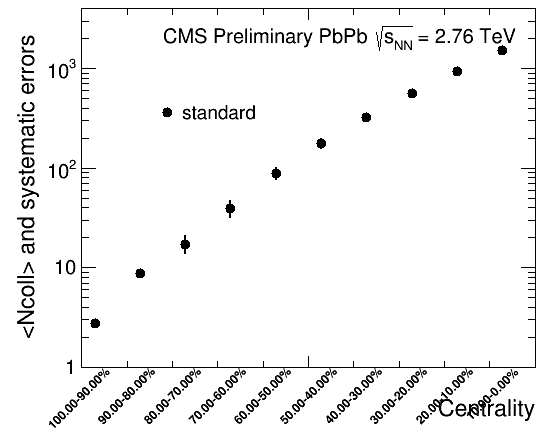
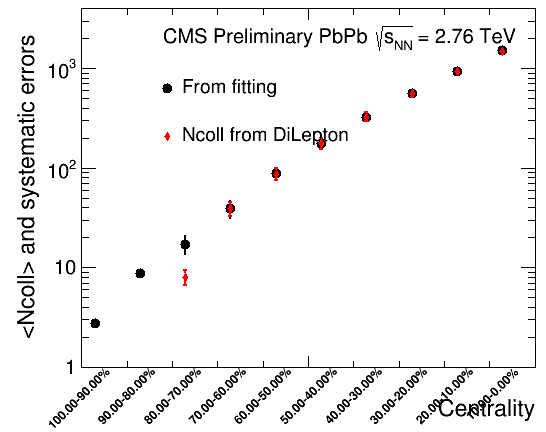
compare PbPb result

diff --git a/centrality/NBD/PbPb/double_side/Draw.C b/centrality/NBD/PbPb/double_side/Draw.C
@@ -3,6 +3,17 @@
 #include <iomanip>
 #include "par.h"
 void Draw(){ 
+ const int nDil = 8;
+ const double centDil[nDil+1] = {1.0,0.7,0.6,0.5,0.4,0.3,0.2,0.1,0};
+ double centDilbin[nDil];
+for(int i=0;i<nDil;i++)
+  centDilbin[i]=0.29+i+N-1-nDil;
+ const double NpartDil[nDil] = {8.75,30.51,53.30,86.23,130.06,187.35,261.49,355.45};
+ const double NpartDilerr[nDil] = {1.13,3.02,3.95,4.35,4.60,4.44,3.96,2.83};
+ const double NcollDil[nDil] = {8.01,38.86,86.85,175.76,326.06,563.21,926.79,1484.49};
+ const double NcollDilerr[nDil] = {1.41,6.41,12.48,21.13,34.27,52.66,81.37,120.0};
+ TGraphErrors *graphNpartDil = new TGraphErrors(nDil,centDilbin,NpartDil,0,NpartDilerr);
+ TGraphErrors *graphNcollDil = new TGraphErrors(nDil,centDilbin,NcollDil,0,NcollDilerr);
  TCanvas *c1 = new TCanvas("c1","c1",1,1,550,460);
  c1->SetLogy();
   c1->SetFillColor(10);
@@ -17,7 +28,7 @@ void Draw(){
   c1->SetTicks(-1);
 
 	N=N-1;
- TString str="Npart";
+ TString str="Ncoll";
  TH1D* hist = new TH1D("","",N,0,N);
  hist->GetXaxis()->SetNdivisions(502);
 if(method==0)
@@ -69,10 +80,22 @@ Gri101_graph->SetLineWidth(2);
 Gri101_graph->SetMarkerSize(1.2);
 Gri101_graph->Draw("Psameez");
 */
-    std::vector<TString> label(N);
+ graphNpartDil->SetMarkerSize(1.2);
+ graphNpartDil->SetLineColor(2);
+ graphNpartDil->SetLineWidth(2);
+ graphNpartDil->SetMarkerStyle(33);
+ graphNpartDil->SetMarkerColor(2);
+ graphNcollDil->SetMarkerSize(1.2);
+ graphNcollDil->SetLineColor(2);
+ graphNcollDil->SetLineWidth(2);
+ graphNcollDil->SetMarkerStyle(33);
+ graphNcollDil->SetMarkerColor(2);
+if(str=="Npart") graphNpartDil->Draw("Psame");
+if(str=="Ncoll") graphNcollDil->Draw("Psame");
+std::vector<TString> label(N);
 for(int i=0;i<N;i++)
-	if(method==0)label[i] = Form("%.2f-%.2f%%",(*centbin)[i]*100,(*centbin)[i+1]*100);
-	else label[i] = Form("%.2f-%.2f",(*kpoint)[i],(*kpoint)[i+1]);
+        if(method==0)label[i] = Form("%.2f-%.2f%%",(*centbin)[i]*100,(*centbin)[i+1]*100);
+        else label[i] = Form("%.2f-%.2f",(*kpoint)[i],(*kpoint)[i+1]);
 
     TLatex *tex1= new TLatex(0.3,0.9,"CMS Preliminary PbPb #sqrt{s_{NN}} = 2.76 TeV");
     tex1->SetNDC();
@@ -96,9 +119,11 @@ TLegend *leg0 = new TLegend(0.28,0.63,0.50,0.85);
     leg0->SetBorderSize(0);
     leg0->SetTextFont(42);
     leg0->SetTextSize(0.047);
-    leg0->AddEntry(graph,"standard","p");
+    leg0->AddEntry(graph,"From fitting","p");
 //    leg0->AddEntry(Gri055_graph,"Gribov #Omega=0.55","p");
 //    leg0->AddEntry(Gri101_graph,"Gribov #Omega=1.01","p");
+ if(str=="Npart")   leg0->AddEntry(graphNpartDil,"Npart from DiLepton","p");
+ if(str=="Ncoll")   leg0->AddEntry(graphNcollDil,"Ncoll from DiLepton","p");
 	leg0->Draw();	
 c1->SaveAs(Form("%sGri.png",str.Data()));
 
